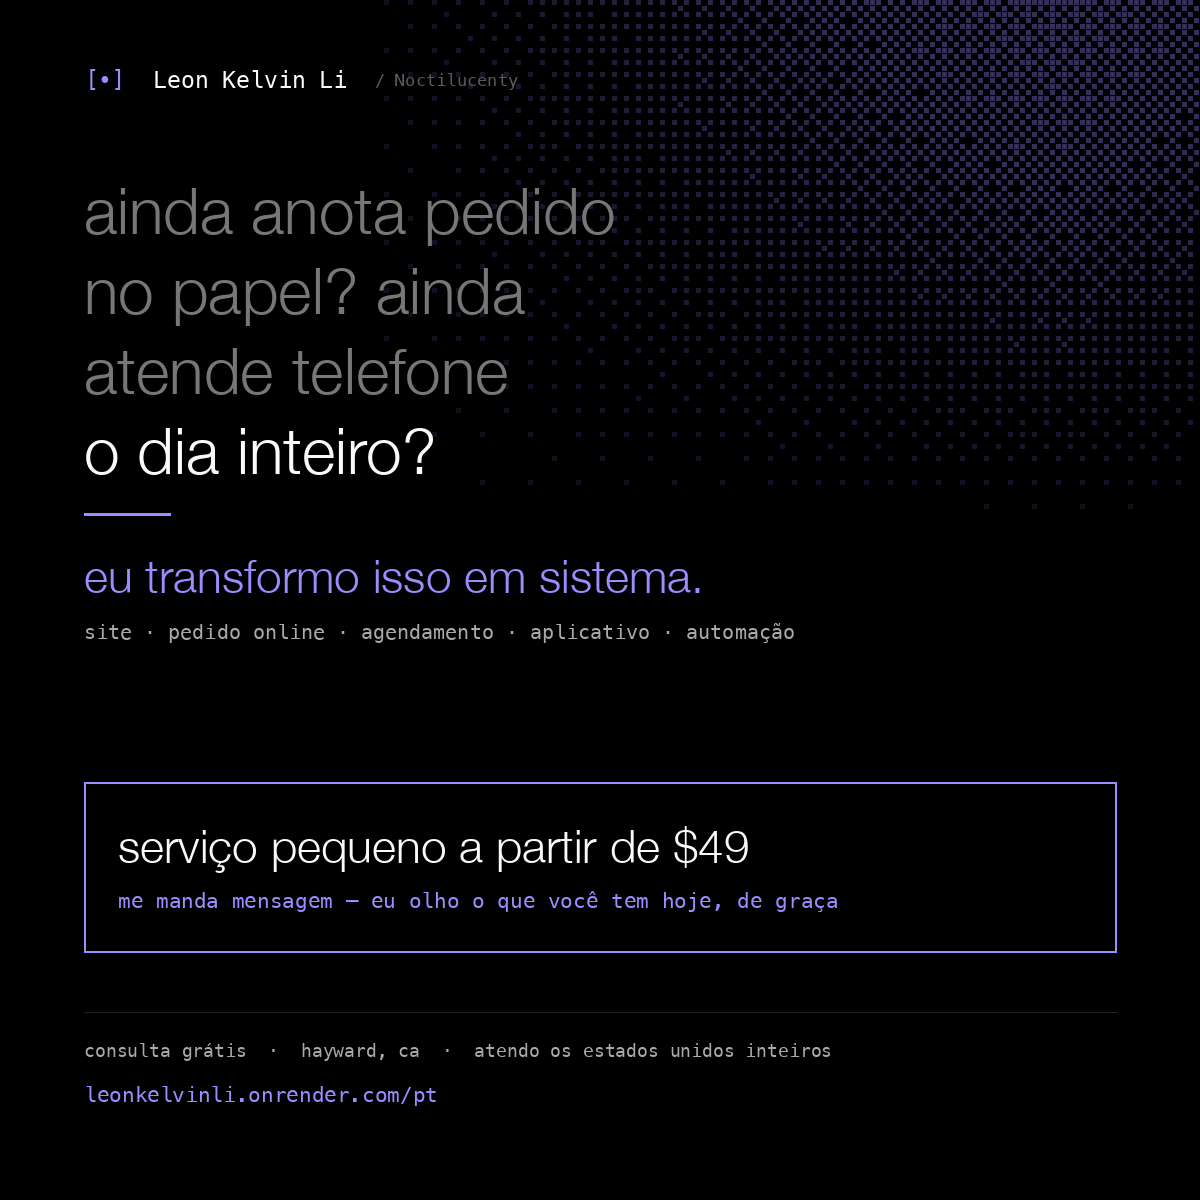
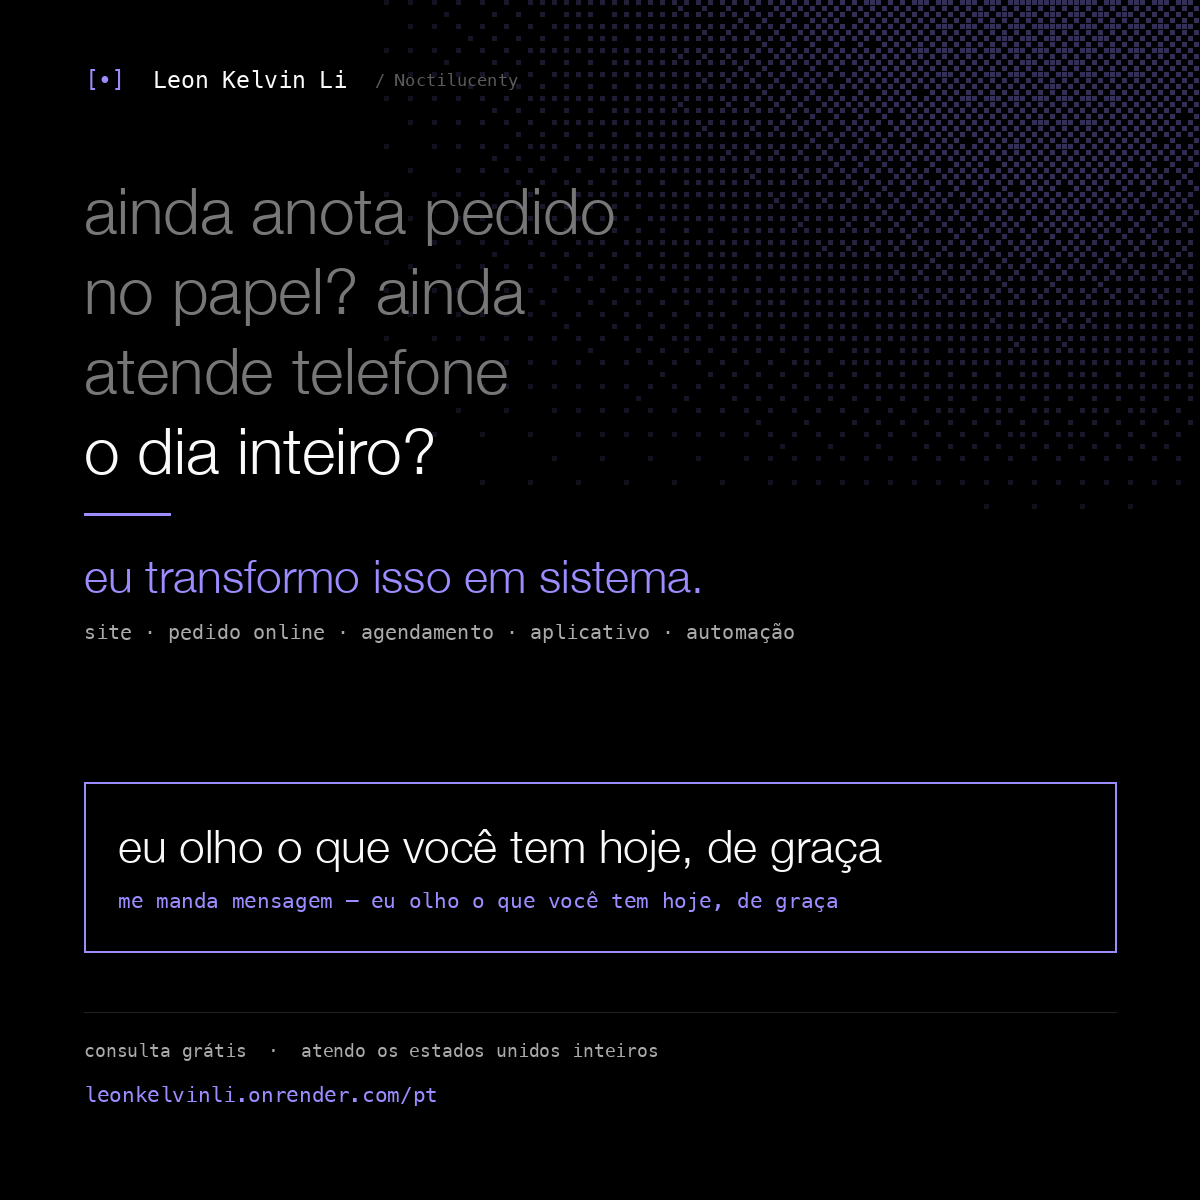
No prices and no city on the listing creative
Two changes he asked for after seeing the boosted-ad preview: the price table
image is now a plain what-i-build list (price comes after a conversation, in
writing), and the city is gone everywhere — images, page schema and the
assistant's own description — because the business is nationwide and naming
Hayward makes it read as local-only.

diff --git a/server/prompt.js b/server/prompt.js
@@ -18,8 +18,9 @@ The visitor should feel they got useful thinking before anyone asked for their e
 
 ABOUT LEON (all public, all true — never embellish)
 - Leon Kelvin Li, independent software developer. Brand: Leon Kelvin Li / Noctilucenty.
-- Based in California (Hayward, SF Bay Area). Works remotely with businesses across the
-  United States; Bay Area on-site is possible when it actually helps.
+- Based in California. Works remotely with businesses across the United States — that
+  is the default and it covers almost every project. Never volunteer a city or imply the
+  work is local-only; if someone asks where he is, "California" is the answer.
 - Languages: English, Chinese, Portuguese, Spanish — working in all four.
 - One person, on purpose: the visitor talks to the person who writes the code.
 - Computer engineering student at Cal State East Bay AND a working developer with

diff --git a/pt.html b/pt.html
@@ -34,7 +34,7 @@
   "url":"https://leonkelvinli.onrender.com/pt",
   "description":"Site, pedido online, agendamento, aplicativo e automação para pequenos negócios, feito direto por um desenvolvedor que fala português. Preço fechado antes de começar.",
   "areaServed":[{"@type":"Country","name":"United States"}],
-  "address":{"@type":"PostalAddress","addressLocality":"Hayward","addressRegion":"CA","addressCountry":"US"},
+  "address":{"@type":"PostalAddress","addressRegion":"CA","addressCountry":"US"},
   "email":"leondragon3798@gmail.com","telephone":"+1-510-826-7735","priceRange":"$$",
   "founder":{"@type":"Person","name":"Leon Kelvin Li"},
   "knowsLanguage":["pt","en","zh","es"],

diff --git a/index.html b/index.html
@@ -37,7 +37,7 @@
   "url":"https://leonkelvinli.onrender.com/",
   "description":"Custom websites, mobile apps, AI systems and business automation, built directly by one developer for businesses across the United States.",
   "areaServed":[{"@type":"Country","name":"United States"},"San Francisco Bay Area"],
-  "address":{"@type":"PostalAddress","addressLocality":"Hayward","addressRegion":"CA","addressCountry":"US"},
+  "address":{"@type":"PostalAddress","addressRegion":"CA","addressCountry":"US"},
   "email":"leondragon3798@gmail.com","telephone":"+1-510-826-7735","priceRange":"$$",
   "founder":{"@type":"Person","name":"Leon Kelvin Li"},
   "knowsLanguage":["en","zh","es","pt"]

diff --git a/zh.html b/zh.html
@@ -34,7 +34,7 @@
   "url":"https://leonkelvinli.onrender.com/zh",
   "description":"网站、网上点单、预约系统、手机 App 和自动化，会说中文的开发者直接做。开工前先讲好价钱。",
   "areaServed":[{"@type":"Country","name":"United States"}],
-  "address":{"@type":"PostalAddress","addressLocality":"Hayward","addressRegion":"CA","addressCountry":"US"},
+  "address":{"@type":"PostalAddress","addressRegion":"CA","addressCountry":"US"},
   "email":"leondragon3798@gmail.com","telephone":"+1-510-826-7735","priceRange":"$$",
   "founder":{"@type":"Person","name":"Leon Kelvin Li"},
   "knowsLanguage":["zh","en","pt","es"],

diff --git a/tools/make_listing_images.py b/tools/make_listing_images.py
@@ -5,14 +5,15 @@ Why three images per listing instead of one price table:
   1. HOOK    — the thumbnail. It is the only thing most people ever see, so it
                asks the buyer's own problem back at them and names the next
                step ("message me"). No price wall.
-  2. PRICES  — the table, in their language, with the floors spelled out.
-  3. PROOF   — the systems that are actually running, so the price is credible.
+  2. BUILD   — what he makes, in their language. No figures: price comes
+               after a conversation, in writing.
+  3. PROOF   — the systems that are actually running.
 
 Every string is written per language, not translated at render time — the
 Portuguese and Chinese listings must read like a person wrote them.
 
 Run from the repo root:  python3 tools/make_listing_images.py
-Writes assets/listings/fb_<lang>_{1hook,2prices,3proof}.png (1200x1200 each).
+Writes assets/listings/fb_<lang>_{1hook,2build,3proof}.png (1200x1200 each).
 """
 
 import math
@@ -42,10 +43,10 @@ L = {
         "hook": ["still taking orders", "by phone? still", "writing bookings", "in a notebook?"],
         "hook_a": "i turn that into software.",
         "hook_b": "websites · online ordering · booking · apps · automation",
-        "anchor": "small jobs from $49",
+        "anchor": "free look at what you have now",
         "cta": "message me — i'll look at what you have now, free",
-        "prices_lab": "W H A T   I   B U I L D   ·   S T A R T I N G   A T",
-        "prices_note": "every price is a floor — you get a fixed written quote before any work starts",
+        "prices_lab": "W H A T   I   B U I L D",
+        "prices_note": "you get a fixed written price before any work starts, and it does not change after",
         "proof_lab": "T H I N G S   T H A T   A R E   A C T U A L L Y   R U N N I N G",
         "proof": [
             ("an iphone app", "on the app store today"),
@@ -53,25 +54,25 @@ L = {
             ("a review tool", "reads the reviews a business gets and writes the replies"),
         ],
         "proof_note": "i speak english, chinese, portuguese and spanish",
-        "foot": "free consultation  ·  hayward, ca  ·  remote anywhere in the u.s.",
+        "foot": "free consultation  ·  working with businesses across the u.s.",
         "url": "leonkelvinli.onrender.com",
         "services": [
-            ("small fixes", "$49+"), ("workflow automation", "$600+"),
-            ("booking & ordering", "$600+"), ("dashboards & tools", "$750+"),
-            ("ai chatbots", "$1,000+"), ("business websites", "$1,200+"),
-            ("ai phone agents", "$1,200+"), ("crm & inventory", "$1,500+"),
-            ("online ordering", "$2,000+"), ("customer portals", "$2,500+"),
-            ("custom software", "$3,500+"), ("ios & android apps", "$4,500+"),
+            ("small fixes", ""), ("workflow automation", ""),
+            ("booking & ordering", ""), ("dashboards & tools", ""),
+            ("ai chatbots", ""), ("business websites", ""),
+            ("ai phone agents", ""), ("crm & inventory", ""),
+            ("online ordering", ""), ("customer portals", ""),
+            ("custom software", ""), ("ios & android apps", ""),
         ],
     },
     "pt": {
         "hook": ["ainda anota pedido", "no papel? ainda", "atende telefone", "o dia inteiro?"],
         "hook_a": "eu transformo isso em sistema.",
         "hook_b": "site · pedido online · agendamento · aplicativo · automação",
-        "anchor": "serviço pequeno a partir de $49",
+        "anchor": "eu olho o que você tem hoje, de graça",
         "cta": "me manda mensagem — eu olho o que você tem hoje, de graça",
-        "prices_lab": "O   Q U E   E U   F A Ç O   ·   A   P A R T I R   D E",
-        "prices_note": "todo preço é um valor de partida — você recebe o preço fechado por escrito antes de eu começar",
+        "prices_lab": "O   Q U E   E U   F A Ç O",
+        "prices_note": "você recebe o preço fechado por escrito antes de eu começar, e ele não muda depois",
         "proof_lab": "C O I S A S   Q U E   E S T Ã O   R O D A N D O   D E   V E R D A D E",
         "proof": [
             ("um aplicativo de iphone", "está na app store hoje"),
@@ -79,25 +80,25 @@ L = {
             ("uma ferramenta de avaliações", "lê as avaliações do negócio e já escreve a resposta"),
         ],
         "proof_note": "falo português, inglês, chinês e espanhol",
-        "foot": "consulta grátis  ·  hayward, ca  ·  atendo os estados unidos inteiros",
+        "foot": "consulta grátis  ·  atendo os estados unidos inteiros",
         "url": "leonkelvinli.onrender.com/pt",
         "services": [
-            ("consertos pequenos", "$49+"), ("automação de tarefas", "$600+"),
-            ("agendamento e pedidos", "$600+"), ("painéis e ferramentas", "$750+"),
-            ("robô de atendimento", "$1,000+"), ("site do negócio", "$1,200+"),
-            ("atendente de telefone ia", "$1,200+"), ("crm e estoque", "$1,500+"),
-            ("pedido online", "$2,000+"), ("portal do cliente", "$2,500+"),
-            ("software sob medida", "$3,500+"), ("aplicativo ios e android", "$4,500+"),
+            ("consertos pequenos", ""), ("automação de tarefas", ""),
+            ("agendamento e pedidos", ""), ("painéis e ferramentas", ""),
+            ("robô de atendimento", ""), ("site do negócio", ""),
+            ("atendente de telefone ia", ""), ("crm e estoque", ""),
+            ("pedido online", ""), ("portal do cliente", ""),
+            ("software sob medida", ""), ("aplicativo ios e android", ""),
         ],
     },
     "zh": {
         "hook": ["还在用本子记单？", "还在整天接电话", "回答同样的问题？"],
         "hook_a": "我把这些变成系统。",
         "hook_b": "网站 · 网上点单 · 预约系统 · 手机 App · 自动化",
-        "anchor": "小活 $49 起",
+        "anchor": "先免费看看你现在的东西",
         "cta": "发消息给我 — 我先免费看看你现在的东西",
-        "prices_lab": "我 能 做 什 么 · 起 步 价",
-        "prices_note": "以上都是起步价 — 开工前先把价钱白纸黑字写下来，做完不会变",
+        "prices_lab": "我 能 做 什 么",
+        "prices_note": "开工前先把价钱白纸黑字写下来，做完不会变",
         "proof_lab": "已 经 在 跑 的 东 西",
         "proof": [
             ("一个 iPhone App", "现在就在 App Store 上"),
@@ -105,15 +106,15 @@ L = {
             ("一个评论工具", "自动读客人的评论，并且写好回复"),
         ],
         "proof_note": "中文、英文、葡萄牙文、西班牙文都可以说",
-        "foot": "免费咨询  ·  加州 hayward  ·  全美国都接，线上做",
+        "foot": "免费咨询  ·  全美国都接，线上做",
         "url": "leonkelvinli.onrender.com/zh",
         "services": [
-            ("小修小改", "$49+"), ("流程自动化", "$600+"),
-            ("预约和点单", "$600+"), ("数据看板", "$750+"),
-            ("智能客服机器人", "$1,000+"), ("公司网站", "$1,200+"),
-            ("AI 电话客服", "$1,200+"), ("客户管理和库存", "$1,500+"),
-            ("网上点单系统", "$2,000+"), ("客户专属后台", "$2,500+"),
-            ("定制软件", "$3,500+"), ("iOS 和安卓 App", "$4,500+"),
+            ("小修小改", ""), ("流程自动化", ""),
+            ("预约和点单", ""), ("数据看板", ""),
+            ("智能客服机器人", ""), ("公司网站", ""),
+            ("AI 电话客服", ""), ("客户管理和库存", ""),
+            ("网上点单系统", ""), ("客户专属后台", ""),
+            ("定制软件", ""), ("iOS 和安卓 App", ""),
         ],
     },
 }
@@ -213,8 +214,9 @@ def prices(lang):
         cx = COL_X[i % 2]
         cy = ROW_Y + (i // 2) * ROW_H
         d.text((cx, cy), name, font=f["svc"], fill=FG)
-        d.text((cx + COL_W - d.textlength(price, font=f["price"]), cy + 2), price,
-               font=f["price"], fill=AC)
+        if price:
+            d.text((cx + COL_W - d.textlength(price, font=f["price"]), cy + 2), price,
+                   font=f["price"], fill=AC)
         d.line([(cx, cy + 42), (cx + COL_W, cy + 42)], fill=LINE, width=1)
     ny = ROW_Y + 6 * ROW_H + 24
     d.text((PAD, ny), c["prices_note"], font=f["note"], fill=DIM)
@@ -244,7 +246,7 @@ def proof(lang):
 
 os.makedirs(outdir, exist_ok=True)
 for lang in L:
-    for name, fn in (("1hook", hook), ("2prices", prices), ("3proof", proof)):
+    for name, fn in (("1hook", hook), ("2build", prices), ("3proof", proof)):
         p = os.path.join(outdir, f"fb_{lang}_{name}.png")
         im = fn(lang)
         im = im.quantize(colors=256, method=Image.MEDIANCUT)
